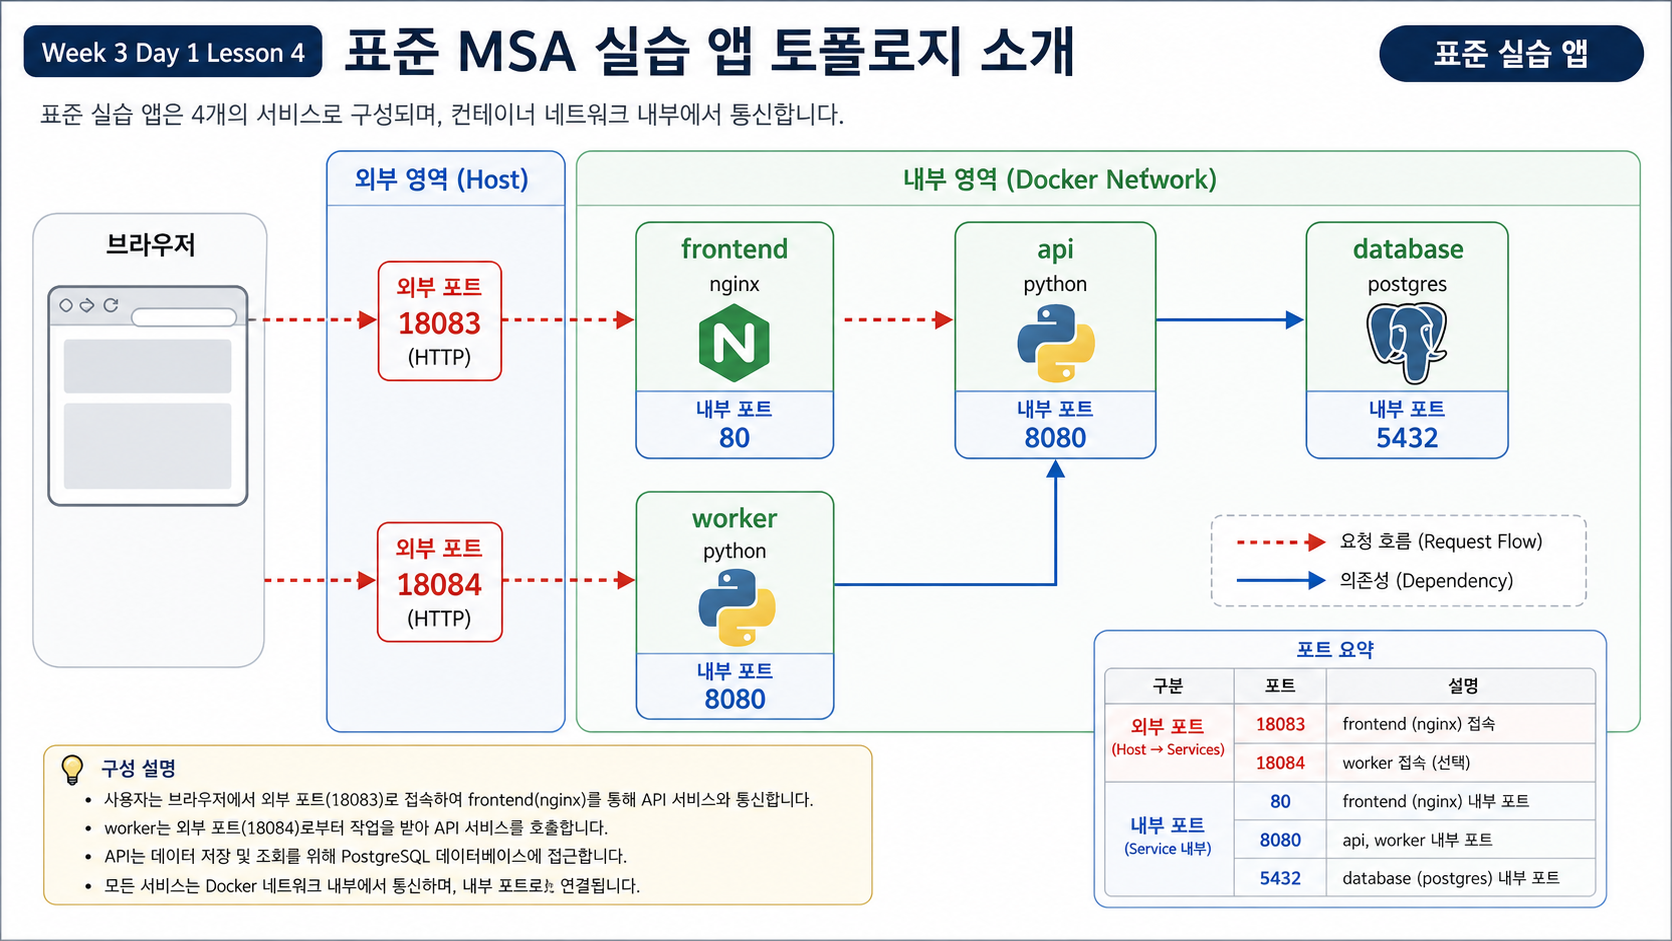
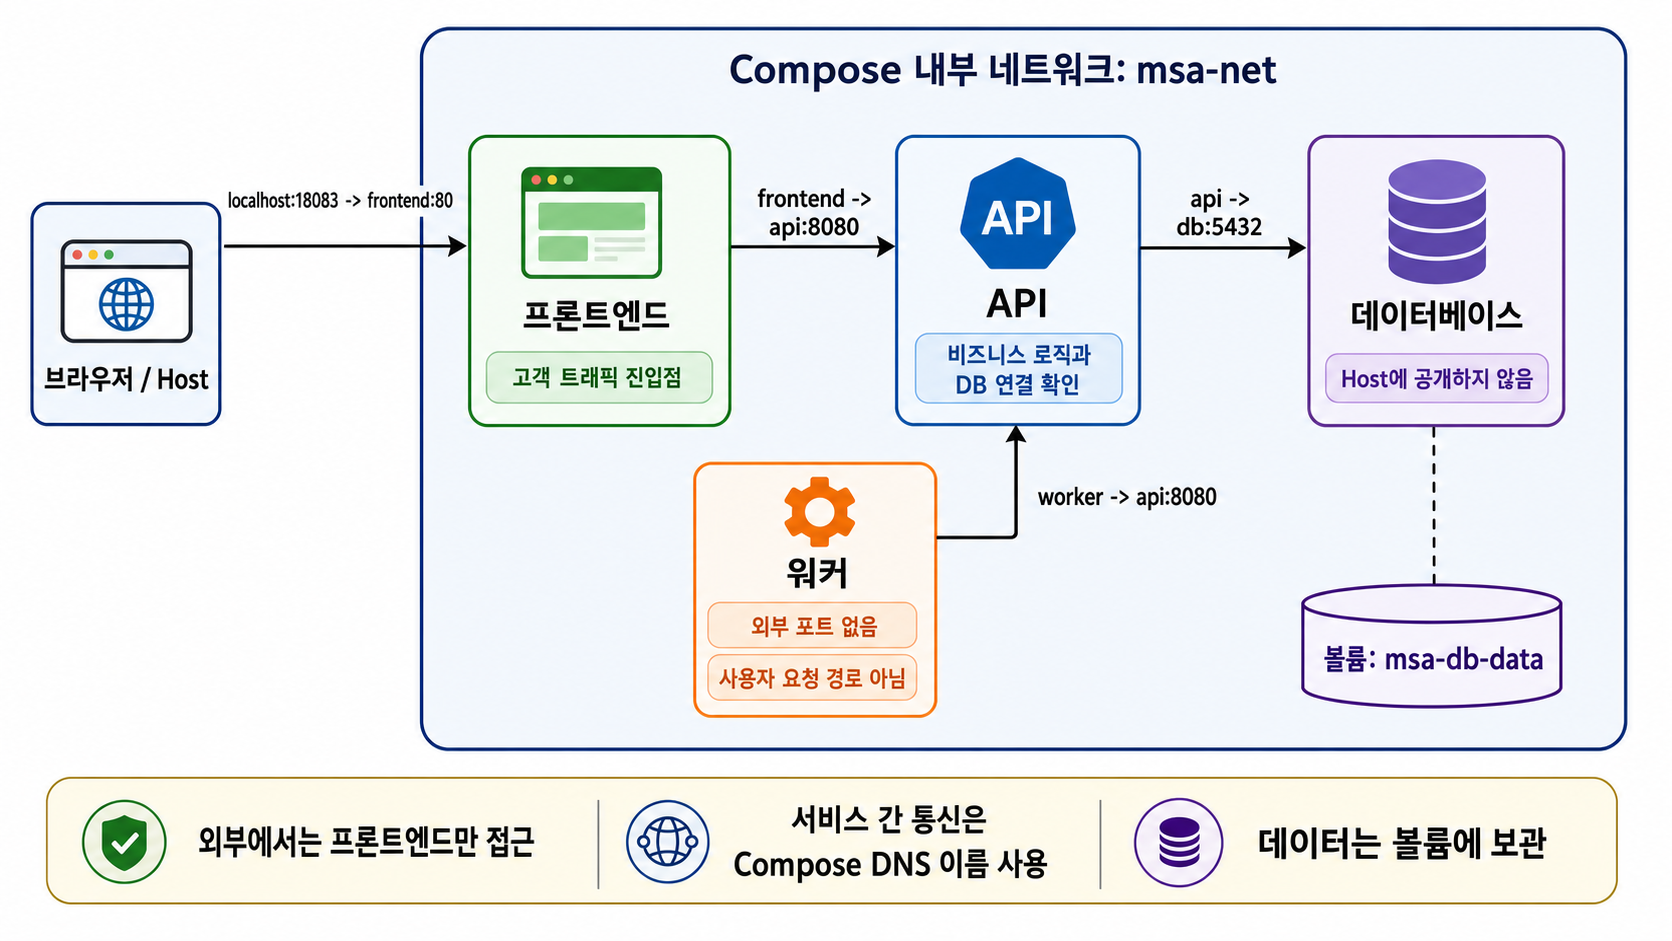
Update W3D1S4 topology infographic

diff --git a/week3/day1/lesson-04.md b/week3/day1/lesson-04.md
@@ -2,6 +2,15 @@
 
 ![Week 3 Day 1 Lesson 4](./assets/lesson-04-standard-msa-topology.png)
 
+그림을 읽을 때는 다음 네 가지를 먼저 확인한다.
+
+| 확인 지점 | 해석 |
+|---|---|
+| 외부 진입점 | Host/browser에서 직접 접근하는 service는 `frontend`뿐이다. |
+| 내부 service 통신 | `frontend -> api`, `api -> db`, `worker -> api`는 Compose 내부 DNS 이름으로 통신한다. |
+| worker 위치 | `worker`는 외부 port를 받지 않고, 사용자 요청 경로가 아닌 background 확인 루프를 수행한다. |
+| DB 공개 범위 | `db`는 host에 port를 공개하지 않고, 내부 network와 volume을 통해서만 사용한다. |
+
 ## 수업 목표
 - `msa-demo`의 frontend, api, worker, db 요청 흐름을 설명한다.
 - 사용자 요청 경로와 background worker 경로를 구분한다.